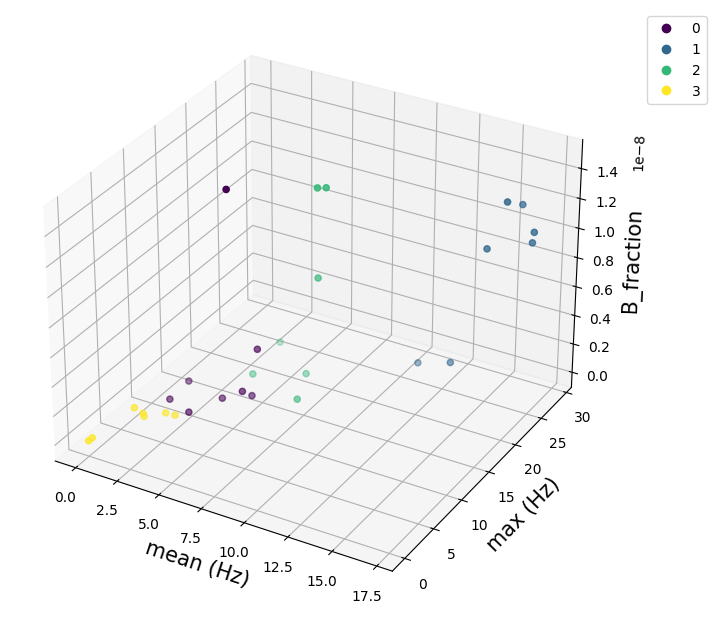
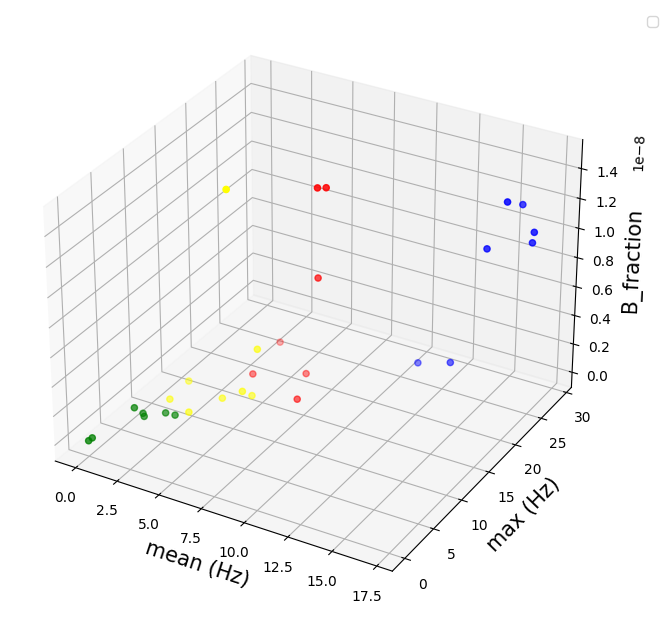
Distances TSNE calculation

diff --git a/Analysis/clustering.py b/Analysis/clustering.py
@@ -26,33 +26,29 @@ def get_frequency_components(abf_objects):
     return freq_components
 
 
-def do_tsne_on_ks(freq_components):
-    iters = [i for i in range(250, 1000, 250)]
-    perplexi = [i for i in range(50, 150, 50)]
-    for it in iters:
-        for p in perplexi:
-            tsne = TSNE(n_components=2, n_iter=it, perplexity=p)
-            tsne_results = tsne.fit_transform(freq_components)
-
-            tpd = {}
-
-            tpd['tsne-2d-one'] = tsne_results[:, 0]
-            tpd['tsne-2d-two'] = tsne_results[:, 1]
-            tpd['Point'] = ["Blue" for i in range(len(tsne_results[:, 0]))]
-            tpd["Point"][0] = "Red"
-            plt.figure(figsize=(16, 10))
-            plt.title(f"tsne results {it} {p}")
-
-            p1 = sns.scatterplot(
-                x="tsne-2d-one", y="tsne-2d-two",
-                # palette=sns.color_palette("hls", 10),
-                hue="Point",
-                # palette=sns.color_palette("hls"),
-                data=tpd,
-                legend="full",
-                alpha=0.3
-            )
-            plt.show()
+def calculate_distances_between_categories(tsne_ouput, categories):
+    distances = np.zeros(shape=(len(categories), len(categories)))
+    same_categories = np.zeros(shape=(len(categories), len(categories)))
+    for i, row in enumerate(distances):
+        for j, val in enumerate(row):
+            if categories[i] == categories[j]:
+                same_categories[i, j] = 1
+            distances[i, j] = ((tsne_ouput["tsne-2d-one"][i]-tsne_ouput["tsne-2d-one"][j])**2 + (tsne_ouput["tsne-2d-two"][i]-tsne_ouput["tsne-2d-two"][j])**2)**0.5
+    distances_between_categories = 0
+    distances_between_all = 0
+    num_sane_category = 0
+    for i, row in enumerate(distances):
+        for j, val in enumerate(row):
+            if j <= i:
+                pass
+            else:
+                if same_categories[i, j] == 1:
+                    num_sane_category += 1
+                    distances_between_categories += val
+                distances_between_all += val
+    print(f"Distances between categories = {distances_between_categories/num_sane_category}")
+    total_comparisons = ((len(categories)-1)/(len(categories)*2))*(len(categories)**2)
+    print(f"Distances between all = {distances_between_all/total_comparisons}")
 
 
 def tsne_on_full_vector(vectors, neuron_names, labels=None, labels2=None):
@@ -105,6 +101,10 @@ def tsne_on_full_vector(vectors, neuron_names, labels=None, labels2=None):
         plt.tight_layout()
 
         plt.show()
+    print("Original labels")
+    calculate_distances_between_categories(tsne_ouput=tpd, categories=labels)
+    print("New labels")
+    calculate_distances_between_categories(tsne_ouput=tpd, categories=labels2)
     return tpd
 
 
@@ -139,6 +139,8 @@ def do_tsne_on_kdfs(kdfs, neuron_names, labels=None):
     #     p1.text(tpd['tsne-2d-one'][line] + 0.01, tpd['tsne-2d-two'][line],
     #             neuron_names[line], horizontalalignment='left',
     #             size='small', color='black', weight='bold')
+    print("KDF labels")
+    calculate_distances_between_categories(tpd, labels)
     plt.show()
 
 
@@ -159,13 +161,13 @@ def knn_on_ifc_initial(vectors):
     # Finidng optimal cluster num
     sil = []
     for i in range(2, 5):
-        nbrs = KMeans(n_clusters=i).fit([[f, ifc_v] for f, ifc_v in zip(finitial_subset, ifc_subset)])
+        nbrs = KMeans(n_clusters=i, n_init=20).fit([[f, ifc_v] for f, ifc_v in zip(finitial_subset, ifc_subset)])
         labels_new = nbrs.labels_
         sil.append(silhouette_score([[f, ifc_v] for f, ifc_v in zip(finitial_subset, ifc_subset)], labels_new, metric='euclidean'))
 
     # Doing this number of clusters
     optimal_num = sil.index(min(sil)) + 1
-    nbrs = KMeans(n_clusters=optimal_num).fit([[f, ifc_v] for f, ifc_v in zip(finitial_subset, ifc_subset)])
+    nbrs = KMeans(n_clusters=optimal_num, n_init=20).fit([[f, ifc_v] for f, ifc_v in zip(finitial_subset, ifc_subset)])
     labels_new = nbrs.labels_
 
     i = 0
@@ -186,14 +188,14 @@ def knn_on_strong_weak(response_vectors):
     # Finidng optimal cluster num
     sil = []
     for i in range(2, 5):
-        nbrs = KMeans(n_clusters=i).fit([[mx, mn, bf] for mx, mn, bf in zip(max_v, mean, B_frac)])
+        nbrs = KMeans(n_clusters=i, n_init=20).fit([[mx, mn, bf] for mx, mn, bf in zip(max_v, mean, B_frac)])
         labels = nbrs.labels_
         sil.append(silhouette_score([[mx, mn, bf] for mx, mn, bf in zip(max_v, mean, B_frac)], labels,
                                     metric='euclidean'))
 
     # Doing this number of clusters
     optimal_num = sil.index(min(sil)) + 2
-    nbrs = KMeans(n_clusters=optimal_num).fit([[mx, mn, bf] for mx, mn, bf in zip(max_v, mean, B_frac)])
+    nbrs = KMeans(n_clusters=optimal_num, n_init=20).fit([[mx, mn, bf] for mx, mn, bf in zip(max_v, mean, B_frac)])
     labels = nbrs.labels_
 
     return labels
@@ -206,14 +208,14 @@ def knn_on_slow_fast_onset(response_vectors):
 
     sil = []
     for i in range(2, 5):
-        nbrs = KMeans(n_clusters=i).fit([[cc, mm, t] for cc, mm, t in zip(c, m, tau)])
+        nbrs = KMeans(n_clusters=i, n_init=20).fit([[cc, mm, t] for cc, mm, t in zip(c, m, tau)])
         labels = nbrs.labels_
         sil.append(silhouette_score([[cc, mm, t] for cc, mm, t in zip(c, m, tau)], labels,
                                     metric='euclidean'))
 
     # Doing this number of clusters
     optimal_num = sil.index(min(sil)) + 2
-    nbrs = KMeans(n_clusters=optimal_num).fit([[cc, mm, t] for cc, mm, t in zip(c, m, tau)])
+    nbrs = KMeans(n_clusters=optimal_num, n_init=20).fit([[cc, mm, t] for cc, mm, t in zip(c, m, tau)])
     labels = nbrs.labels_
 
     return labels
@@ -226,14 +228,14 @@ def knn_on_slow_fast_adapt_accel(response_vectors):
 
     sil = []
     for i in range(2, 5):
-        nbrs = KMeans(n_clusters=i).fit([[bf, mm, t] for bf, mm, t in zip(B_frac, m, tau)])
+        nbrs = KMeans(n_clusters=i, n_init=20).fit([[bf, mm, t] for bf, mm, t in zip(B_frac, m, tau)])
         labels = nbrs.labels_
         sil.append(silhouette_score([[bf, mm, t] for bf, mm, t in zip(B_frac, m, tau)], labels,
                                     metric='euclidean'))
 
     # Doing this number of clusters
     optimal_num = sil.index(min(sil)) + 2
-    nbrs = KMeans(n_clusters=optimal_num).fit([[bf, mm, t] for bf, mm, t in zip(B_frac, m, tau)])
+    nbrs = KMeans(n_clusters=optimal_num, n_init=20).fit([[bf, mm, t] for bf, mm, t in zip(B_frac, m, tau)])
     labels = nbrs.labels_
 
     return labels
@@ -244,13 +246,13 @@ def knn_full_response_vector(vectors):
 
     sil = []
     for i in range(2, 5):
-        nbrs = KMeans(n_clusters=i).fit(vectors)
+        nbrs = KMeans(n_clusters=i, n_init=20).fit(vectors)
         labels = nbrs.labels_
         sil.append(silhouette_score(vectors, labels, metric='euclidean'))
 
     # Doing this number of clusters
     optimal_num = sil.index(min(sil))
-    nbrs = KMeans(n_clusters=optimal_num).fit(vectors)
+    nbrs = KMeans(n_clusters=optimal_num, n_init=20).fit(vectors)
     labels = nbrs.labels_
 
     return labels

diff --git a/run.py b/run.py
@@ -5,7 +5,7 @@ from Processing.process_raw_trace import get_spike_times_for_cc
 from Processing.calculate_spike_rate import calculate_spike_rate_kernel_smoothing
 from Processing.data_checking import check_isi_normality, check_whole_rate_normality, check_metric_normality
 
-from Analysis.clustering import do_tsne_on_ks, get_frequency_components, tsne_on_full_vector, all_clusters, do_tsne_on_kdfs, knn_full_response_vector, knn_on_ifc_initial, agglomerative_clustering_on_vectors, knn_on_strong_weak, knn_on_slow_fast_onset, knn_on_slow_fast_adapt_accel
+from Analysis.clustering import get_frequency_components, tsne_on_full_vector, all_clusters, do_tsne_on_kdfs, knn_full_response_vector, knn_on_ifc_initial, agglomerative_clustering_on_vectors, knn_on_strong_weak, knn_on_slow_fast_onset, knn_on_slow_fast_adapt_accel
 from Analysis.statistics import do_manova_on_groups, do_anova_on_groups, do_kruskal_wallis_test
 
 
@@ -26,7 +26,6 @@ from Visualisation.metrics_plots import plot_masoli_metrics, plot_metrics_agains
 # epsp = load_data("../../Granule-Data/GrC_Subject14_161115/", "161115_0007 EPSP.abf")
 # figure_1(cc2, epsp)
 # figure_3(cc3)
-
 
 
 # Checking for normality in cc and epsp
@@ -54,24 +53,23 @@ data = load_all_cc_data()
 vectors, neurons = compute_neuron_vectors(data, load_all_epsp_data())
 
 neurons = list(neurons)
-
+check_metric_normality(vectors)
 
 clusters = all_clusters(vectors, neurons)
 labels = [clusters.iloc[0, i] for i in range(len(clusters.columns))]
 
 new_clusters = [str(clusters.iloc[0, i]) + str(clusters.iloc[1, i]) + str(clusters.iloc[2, i]) for i in range(len(clusters.columns))]
-figure_5(vectors, clusters)
+# figure_5(vectors, clusters)
 # clusters.to_csv("clusters.csv")
 kdfs = get_all_kdfs(data, load_all_epsp_data())
 tsne_on_full_vector(vectors, None, labels, new_clusters)
 do_tsne_on_kdfs(kdfs, None, labels)
 
+tsne_on_full_vector(vectors, neurons, labels, new_clusters)
 
 
 #
 # tsne_on_full_vector(vectors, neurons, labels)
-
-x = True
 
 # Original groups
 labels = knn_on_ifc_initial(vectors)

diff --git a/Visualisation/figures.py b/Visualisation/figures.py
@@ -129,9 +129,9 @@ def figure_3(cc_object):
 
 
 def figure_5(response_vectors, all_clusters):
-    cluster2 = [all_clusters.iloc[1, i] for i in range(len(all_clusters.columns))]
-    cluster3 = [all_clusters.iloc[2, i] for i in range(len(all_clusters.columns))]
-    cluster4 = [all_clusters.iloc[3, i] for i in range(len(all_clusters.columns))]
+    cluster2 = [str(all_clusters.iloc[1, i]) for i in range(len(all_clusters.columns))]
+    cluster3 = [str(all_clusters.iloc[2, i]) for i in range(len(all_clusters.columns))]
+    cluster4 = [str(all_clusters.iloc[3, i]) for i in range(len(all_clusters.columns))]
 
     sfc = [vector[0] for vector in response_vectors]
     for i, v in enumerate(sfc):
@@ -146,9 +146,10 @@ def figure_5(response_vectors, all_clusters):
     c = [vector[7] for vector in response_vectors]
     tau = [vector[8] for vector in response_vectors]
 
+    colours = {"0": "red", "1": "green", "2": "blue", "3": "yellow"}
     fig = plt.figure(figsize=(6, 6))
     ax = Axes3D(fig)
-    sc = ax.scatter(mean, max_v, B_frac, c=cluster2)
+    sc = ax.scatter(mean, max_v, B_frac, c=[colours[c] for c in cluster2])
     ax.set_xlabel("mean (Hz)", size=15)
     ax.set_ylabel("max (Hz)", size=15)
     ax.set_zlabel("B_fraction", size=15)
@@ -158,7 +159,7 @@ def figure_5(response_vectors, all_clusters):
 
     fig = plt.figure(figsize=(6, 6))
     ax = Axes3D(fig)
-    sc = ax.scatter(tau, c, m, c=cluster3)
+    sc = ax.scatter(tau, c, m, c=[colours[c] for c in cluster3])
     ax.set_xlabel("Tau (s)", size=15)
     ax.set_ylabel("c (Hz)", size=15)
     ax.set_zlabel("m_norm (s-1)", size=15)
@@ -168,7 +169,7 @@ def figure_5(response_vectors, all_clusters):
 
     fig = plt.figure(figsize=(6, 6))
     ax = Axes3D(fig)
-    sc = ax.scatter(B_frac, m, tau, c=cluster4)
+    sc = ax.scatter(B_frac, m, tau, c=[colours[c] for c in cluster4])
     ax.set_xlabel("B_fraction", size=15)
     ax.set_ylabel("m_norm (s-1)", size=15)
     ax.set_zlabel("Tau (s)", size=15)

diff --git a/Visualisation/metrics_plots.py b/Visualisation/metrics_plots.py
@@ -58,7 +58,7 @@ def plot_metrics_against_clusters(response_vectors, neurons, labels, clustering_
 
     axs[0, 2].set_ylabel("IFC (%)", size=15)
     axs[0, 2].set_xlabel("B_fraction", size=15)
-    sns.scatterplot(ax=axs[0, 2], x=m, y=B_frac, palette=sns.color_palette("hls", len(set(labels))), hue=labels)
+    sns.scatterplot(ax=axs[0, 2], x=B_frac, y=ifc, palette=sns.color_palette("hls", len(set(labels))), hue=labels)
 
 
     # Strong-weak
@@ -70,9 +70,9 @@ def plot_metrics_against_clusters(response_vectors, neurons, labels, clustering_
     axs[1, 1].set_xlabel("B_fraction", size=15)
     sns.scatterplot(ax=axs[1, 1], x=B_frac, y=mean, palette=sns.color_palette("hls", len(set(labels))), hue=labels)
 
-    axs[1, 2].set_ylabel("B_fraction", size=15)
-    axs[1, 2].set_xlabel("m (Hzs-1)", size=15)
-    sns.scatterplot(ax=axs[1, 2], x=max_v, y=c, palette=sns.color_palette("hls", len(set(labels))), hue=labels)
+    axs[1, 2].set_ylabel("B_Fraction (Hz)", size=15)
+    axs[1, 2].set_xlabel("m_norm (s-1)", size=15)
+    sns.scatterplot(ax=axs[1, 2], x=m, y=c, palette=sns.color_palette("hls", len(set(labels))), hue=labels)
 
 
     # Slow-Fast Onset
@@ -81,7 +81,7 @@ def plot_metrics_against_clusters(response_vectors, neurons, labels, clustering_
     sns.scatterplot(ax=axs[2, 0], x=c, y=tau, palette=sns.color_palette("hls", len(set(labels))), hue=labels)
 
     axs[2, 1].set_ylabel("Tau (s)", size=15)
-    axs[2, 1].set_xlabel("m (Hzs-1)", size=15)
+    axs[2, 1].set_xlabel("m_norm (s-1)", size=15)
     sns.scatterplot(ax=axs[2, 1], x=m, y=tau, palette=sns.color_palette("hls", len(set(labels))), hue=labels)
 
     axs[2, 2].set_ylabel("B_fraction", size=15)

diff --git a/Processing/data_checking.py b/Processing/data_checking.py
@@ -67,39 +67,39 @@ def check_metric_normality(response_vectors):
 
     sns.histplot(sfc, ax=axs[0, 0])
     k2, p = stats.normaltest(sfc)
-    axs[0,0].set_title(f"sfc, p={p}")
+    axs[0,0].set_title(f"SFC, p={p}", fontsize=25)
 
     sns.histplot(ifc, ax=axs[0, 1])
     k2, p = stats.normaltest(ifc)
-    axs[0,1].set_title(f"ifc, p={p}")
+    axs[0,1].set_title(f"IFC, p={p}", fontsize=25)
 
     sns.histplot(f_initial, ax=axs[0, 2])
     k2, p = stats.normaltest(f_initial)
-    axs[0,2].set_title(f"f_initial, p={p}")
+    axs[0,2].set_title(f"F_initial, p={p}", fontsize=25)
 
     sns.histplot(B_frac, ax=axs[1, 0])
     k2, p = stats.normaltest(B_frac)
-    axs[1,0].set_title(f"B_frac, p={p}")
+    axs[1,0].set_title(f"B_fraction, p={p}", fontsize=25)
 
     sns.histplot(max_v, ax=axs[1, 1])
     k2, p = stats.normaltest(max_v)
-    axs[1,1].set_title(f"max_v, p={p}")
+    axs[1,1].set_title(f"Max, p={p}", fontsize=25)
 
     sns.histplot(mean, ax=axs[1, 2])
     k2, p = stats.normaltest(mean)
-    axs[1,2].set_title(f"mean, p={p}")
+    axs[1,2].set_title(f"Mean, p={p}", fontsize=25)
 
     sns.histplot(m, ax=axs[2, 0])
     k2, p = stats.normaltest(m)
-    axs[2,0].set_title(f"m, p={p}")
+    axs[2,0].set_title(f"m_norm, p={p}", fontsize=25)
 
     sns.histplot(c, ax=axs[2, 1])
     k2, p = stats.normaltest(c)
-    axs[2,1].set_title(f"c, p={p}")
+    axs[2,1].set_title(f"c, p={p}", fontsize=25)
 
     sns.histplot(tau, ax=axs[2, 2])
     k2, p = stats.normaltest(tau)
-    axs[2,2].set_title(f"tau, p={p}")
+    axs[2,2].set_title(f"tau, p={p}", fontsize=25)
 
     plt.show()
 
